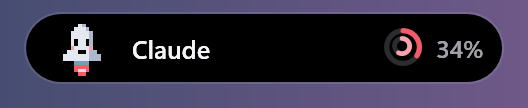
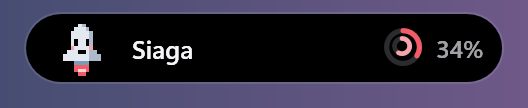
feat(ui): ganti teks idle "Claude" menjadi "Siaga"
- Teks idle diambil dari nama status idle di ogin-pixel.json, jadi ikut
  menyesuaikan bila maskot diganti dan tetap cocok untuk tool selain Claude.
- docs/idle.png dirender ulang.
- docs(readme): tambah kredit pembuat (Gus Khamim) dan tautan issue.

Changed region(s): [[0.2424, 0.3611, 0.3939, 0.6111]]

diff --git a/README.md b/README.md
@@ -5,6 +5,8 @@
 Pil kecil di tepi atas layar yang memberi tahu saat Claude selesai, butuh izin, atau gagal, lengkap
 dengan maskot pixel **ogin** dan sisa kuota Claude Anda, tanpa perlu membuka `/usage`.
 
+Dibuat oleh **Gus Khamim** ([@amimhayden22](https://github.com/amimhayden22)).
+
 ![Claude selesai](docs/done.png)
 
 ## Fitur
@@ -25,7 +27,7 @@ dengan maskot pixel **ogin** dan sisa kuota Claude Anda, tanpa perlu membuka `/u
 
 | Kondisi | Tampilan |
 |---|---|
-| **Siap** — maskot + cincin kuota (luar: 5 jam, dalam: mingguan) | ![Siap](docs/idle.png) |
+| **Siaga** — maskot + cincin kuota (luar: 5 jam, dalam: mingguan) | ![Siaga](docs/idle.png) |
 | **Bekerja** — maskot bekerja, nama proyek tampil | ![Bekerja](docs/working.png) |
 | **Hover** — detail kuota, sesi aktif, tombol | ![Hover](docs/hover.png) |
 | **Butuh izin** — notifikasi + suara | ![Butuh izin](docs/attention.png) |
@@ -188,8 +190,10 @@ sendiri.
 
 ## Lisensi & kredit
 
+- Dibuat oleh **Gus Khamim** ([@amimhayden22](https://github.com/amimhayden22)). Masukan dan laporan
+  masalah: buka [issue](https://github.com/amimhayden22/origin-island/issues).
 - Kode: [MIT](LICENSE).
-- Maskot **ogin** dan ikon: bagian dari proyek ini.
+- Maskot **ogin** dan ikon: karya Gus Khamim untuk proyek ini.
 - Suara notifikasi: dari sumber suara bebas royalti.
 
 Origin Island adalah proyek independen dan **tidak berafiliasi** dengan Anthropic atau Apple.
